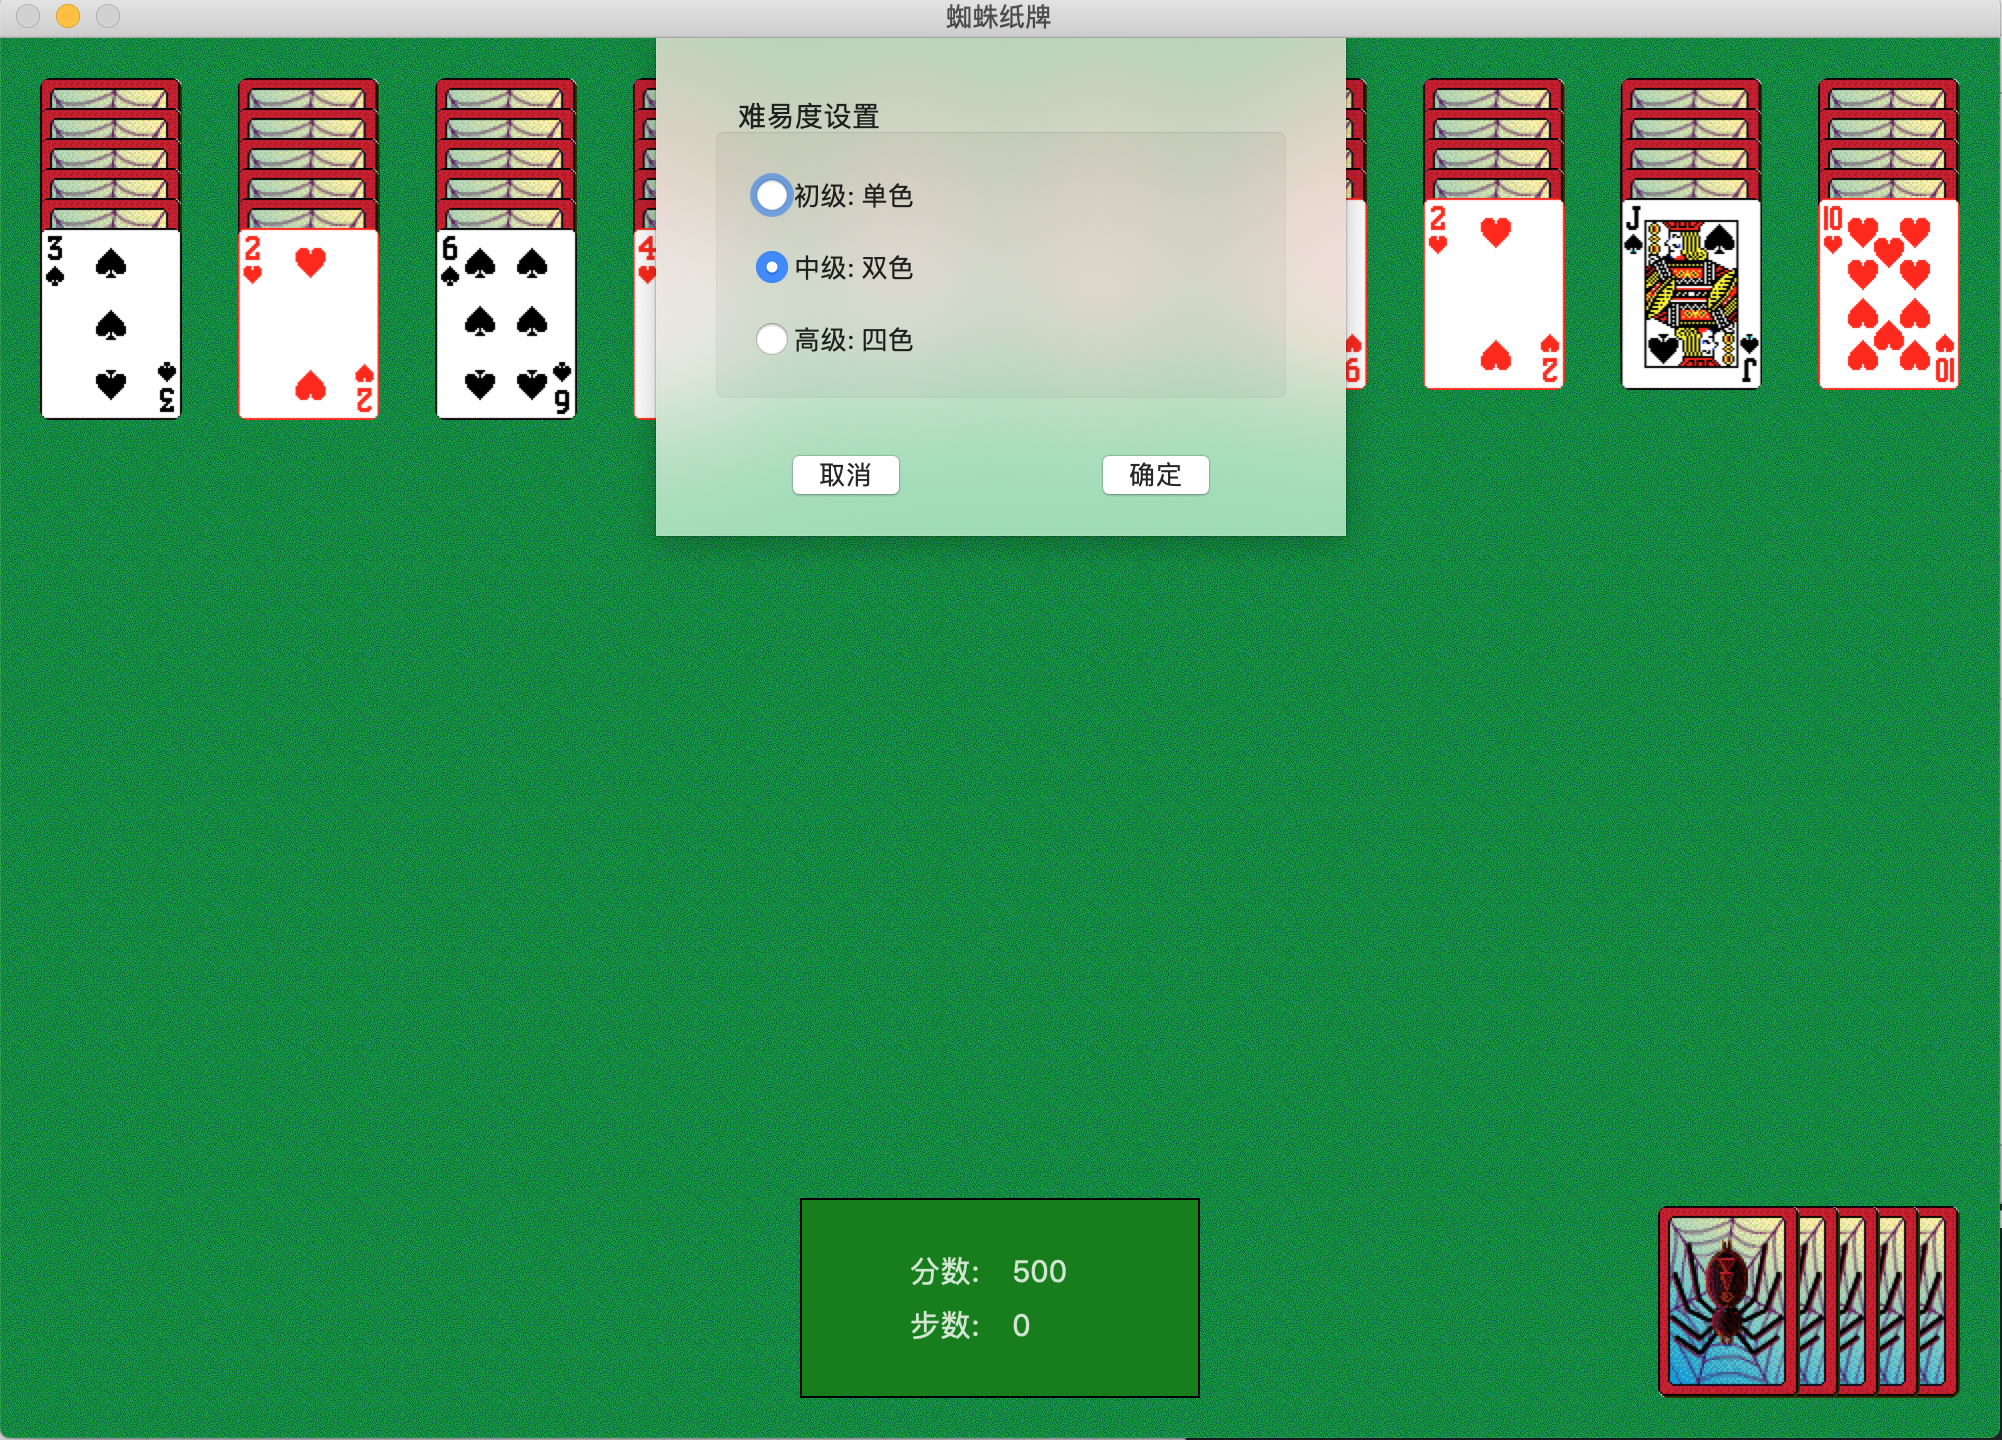
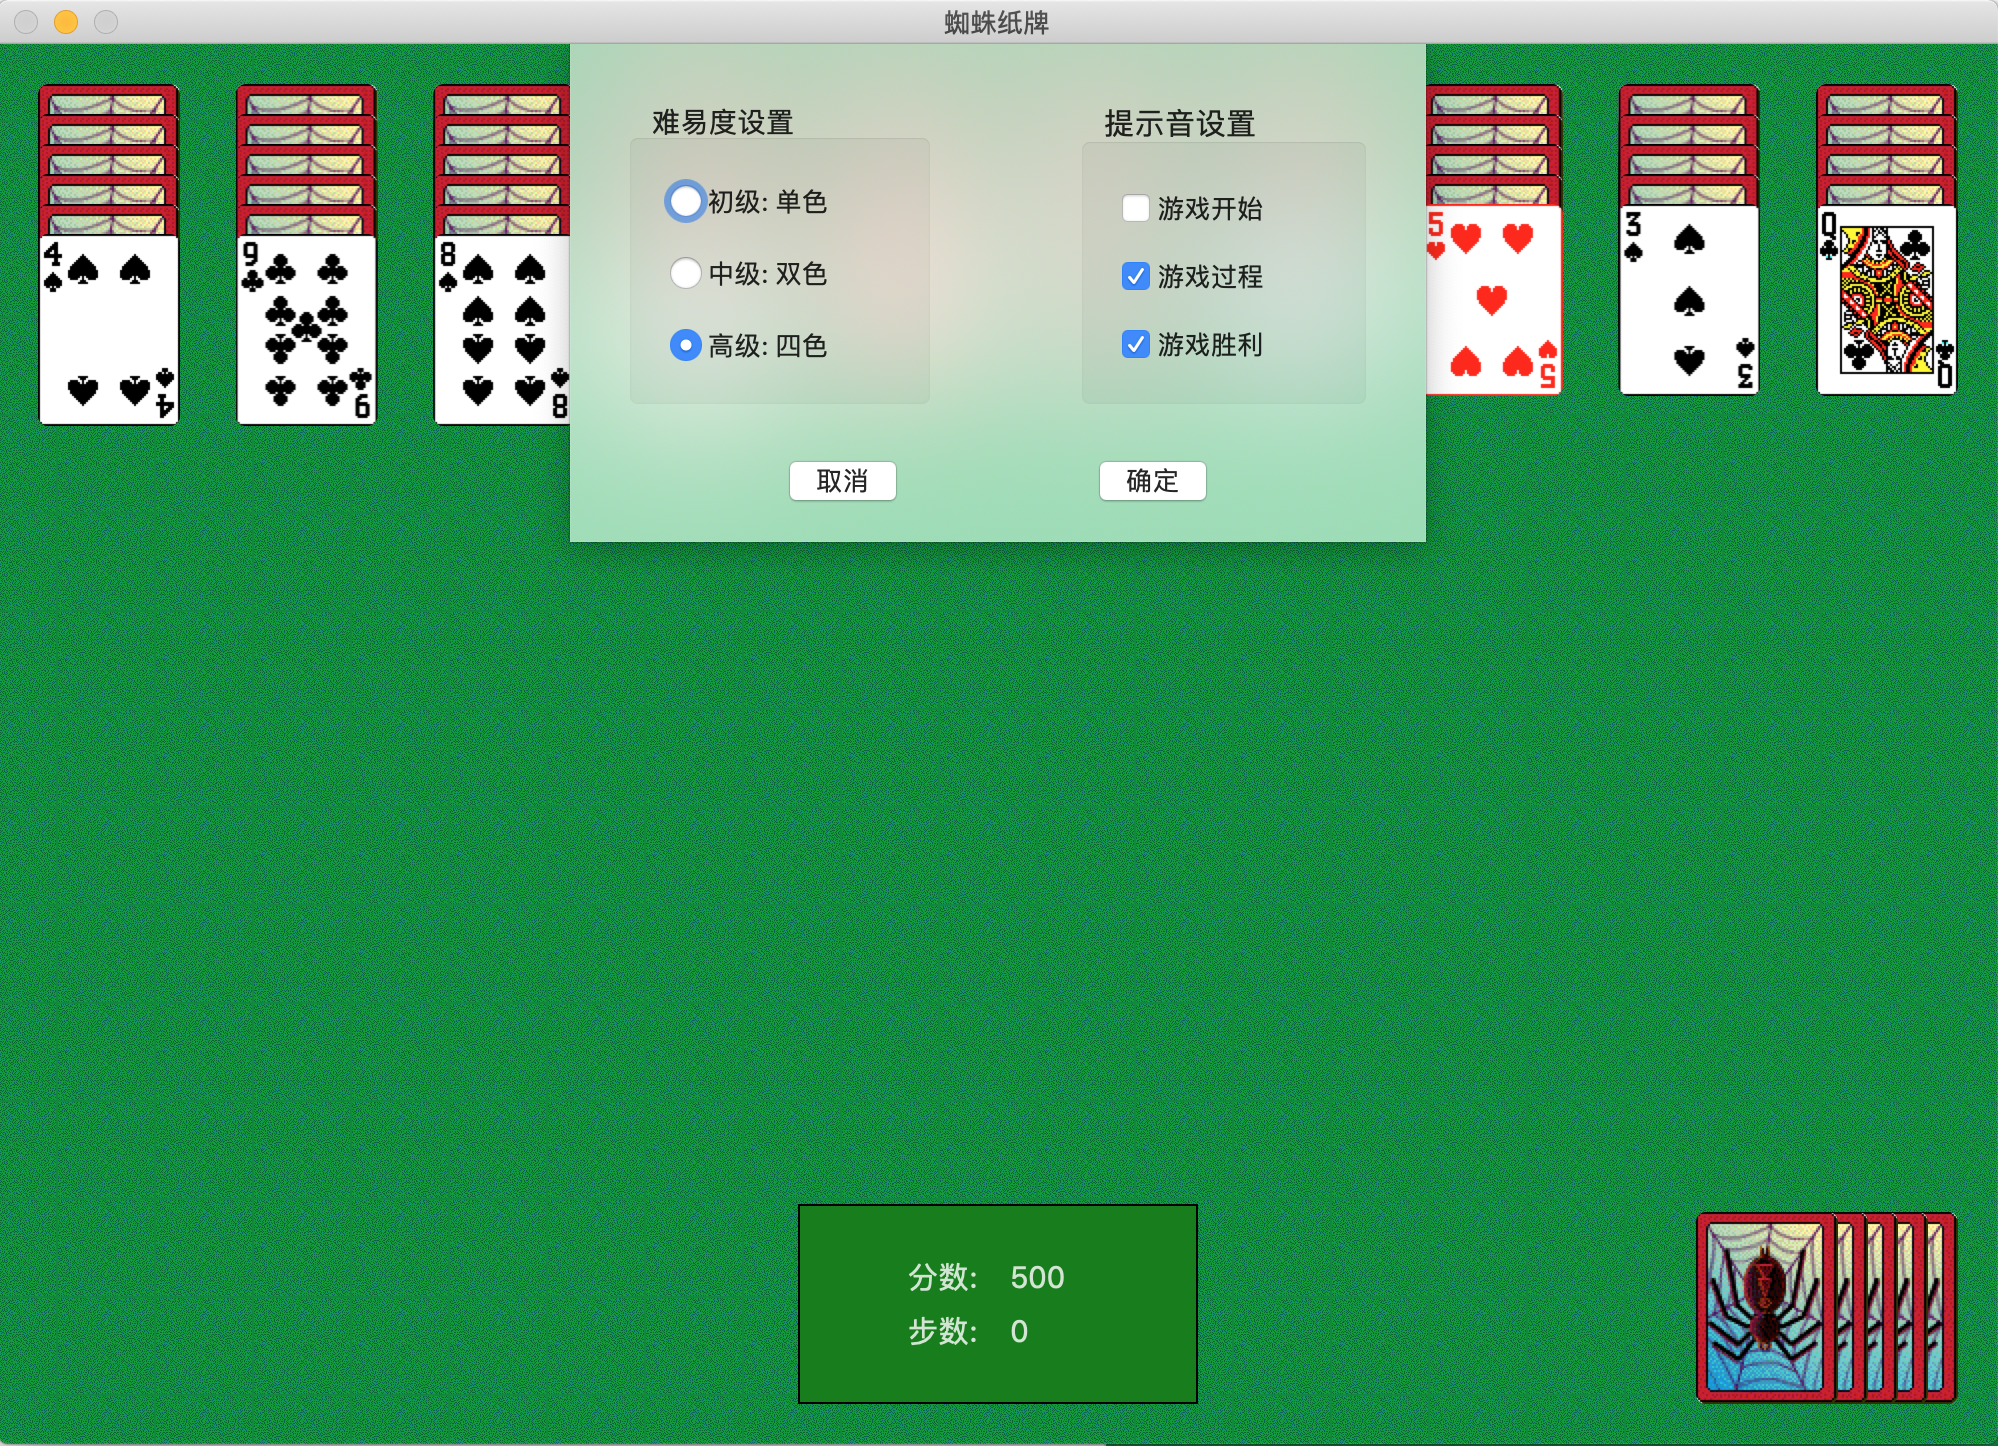
更新截图

diff --git a/README.md b/README.md
@@ -7,7 +7,8 @@
 - [x] 基本游戏功能
 - [x] 难易度设置
 - [x] 分数、步数显示
-- [x] 部分音频效果
+- [x] 部分提示音效果
+- [x] 提示音设置
 
 ## 已知问题
 
